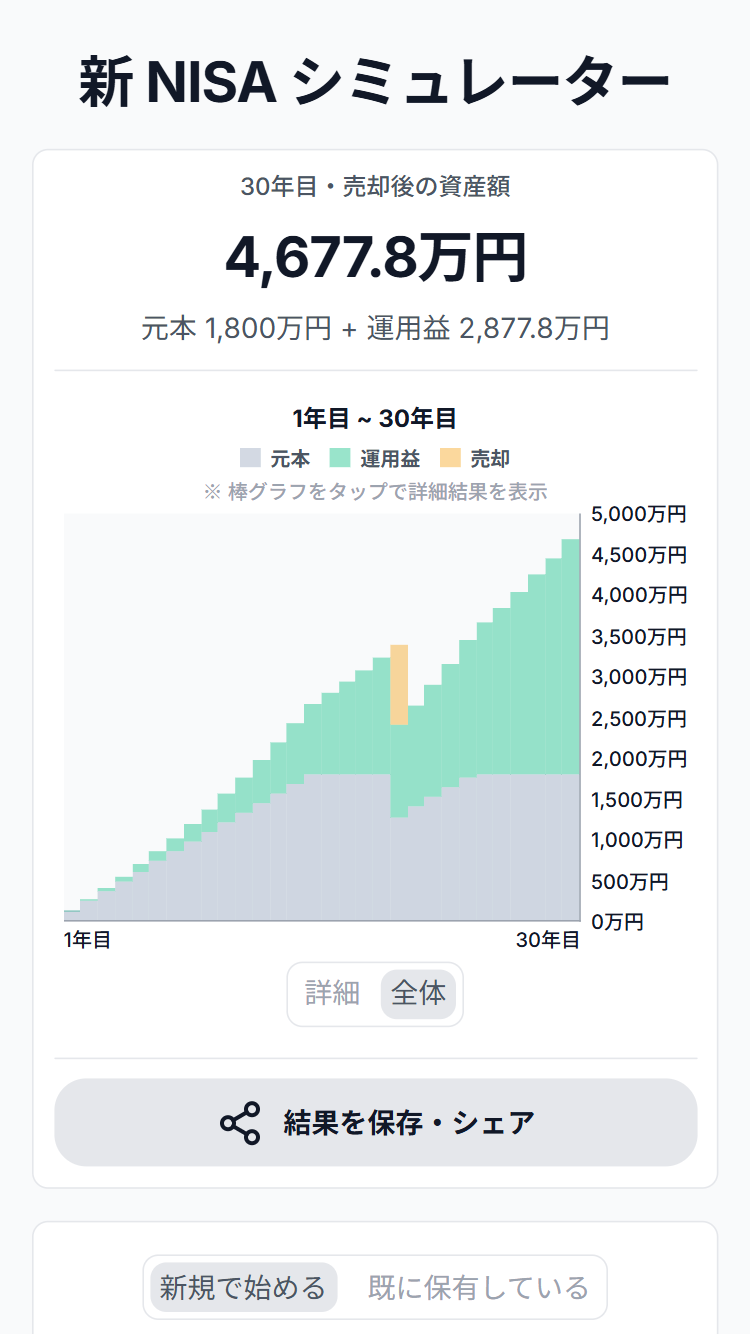
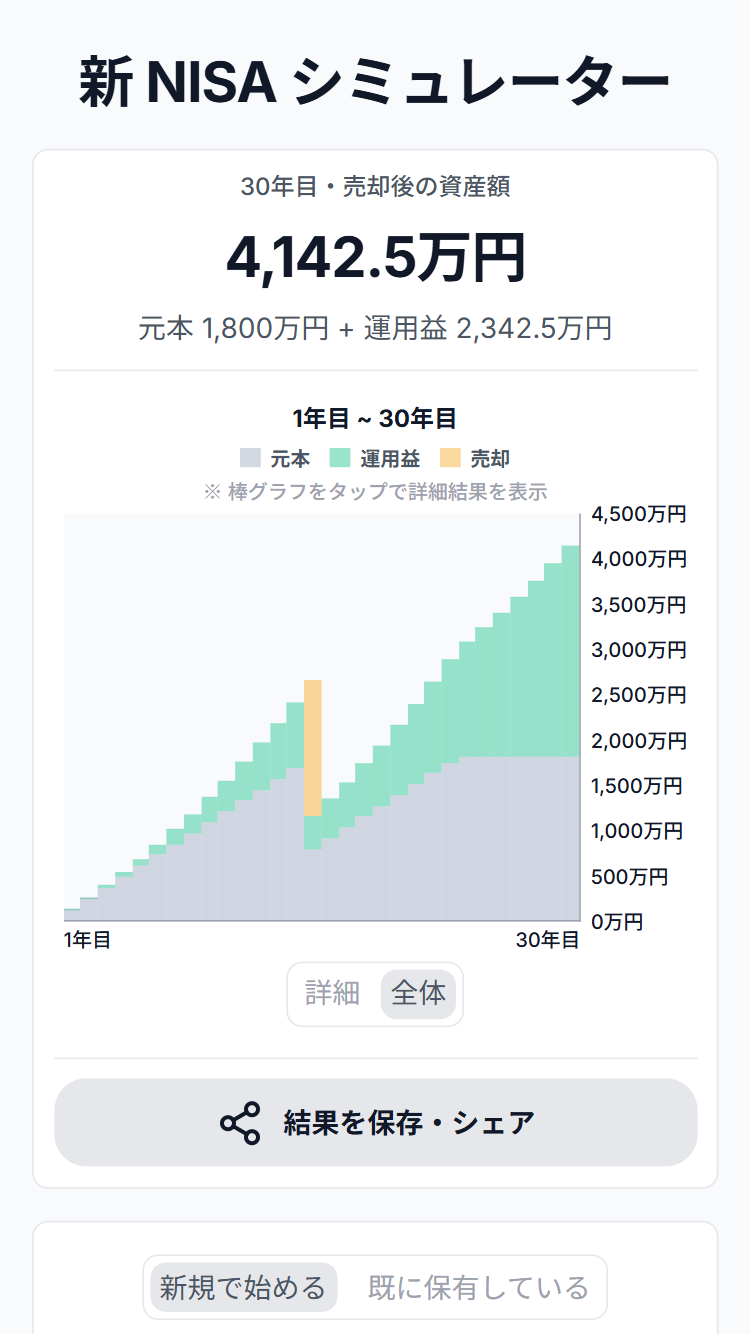
feat: More Screenshots

diff --git a/README.md b/README.md
@@ -7,6 +7,16 @@
 
 ![アプリケーション画面](docs/images/screenshot-main.png)
 
+### 画面イメージ
+
+| 入力画面 | 結果詳細画面 |
+| :---: | :---: |
+| ![入力画面](docs/images/screenshot-input.png) | ![結果詳細画面](docs/images/screenshot-result-detail.png) |
+
+| 入力ヒント（想定利回り） | 入力ヒント（購入額） |
+| :---: | :---: |
+| ![入力ヒント：想定利回り](docs/images/screenshot-tip-return-rate.png) | ![入力ヒント：購入額](docs/images/screenshot-tip-purchase-amount.png) |
+
 ## 概要
 
 新NISAでは、保有資産を売却するとその**簿価分の非課税枠が翌年1月1日に復活**します。本ツールはこの制度仕様を月次台帳モデルとして実装し、積立・取り崩し・枠の再利用を含めた長期の資産推移と非課税メリット（譲渡益税率 20.315% 換算）を算出します。
